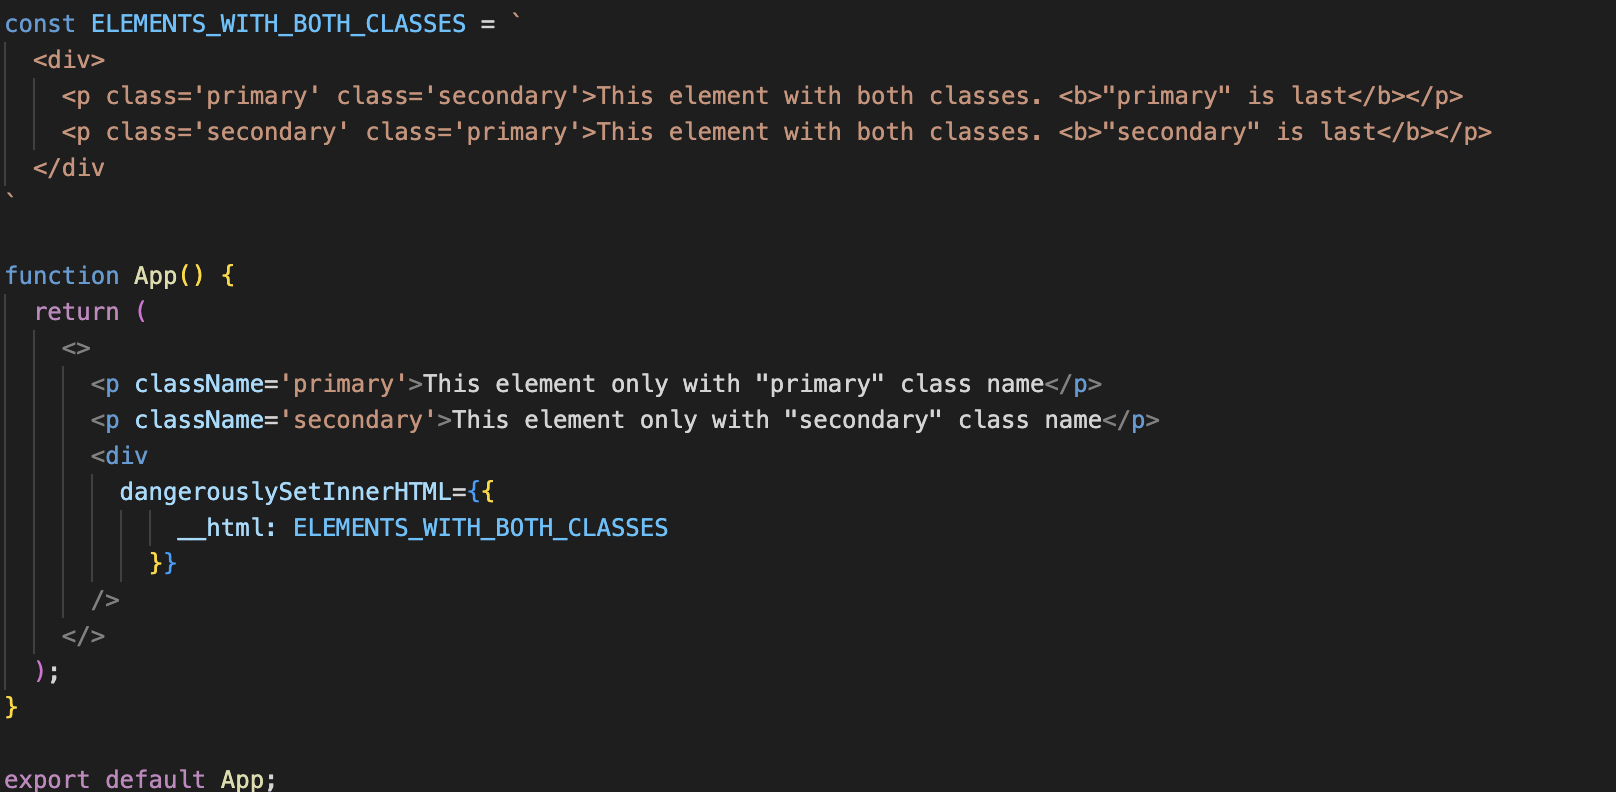
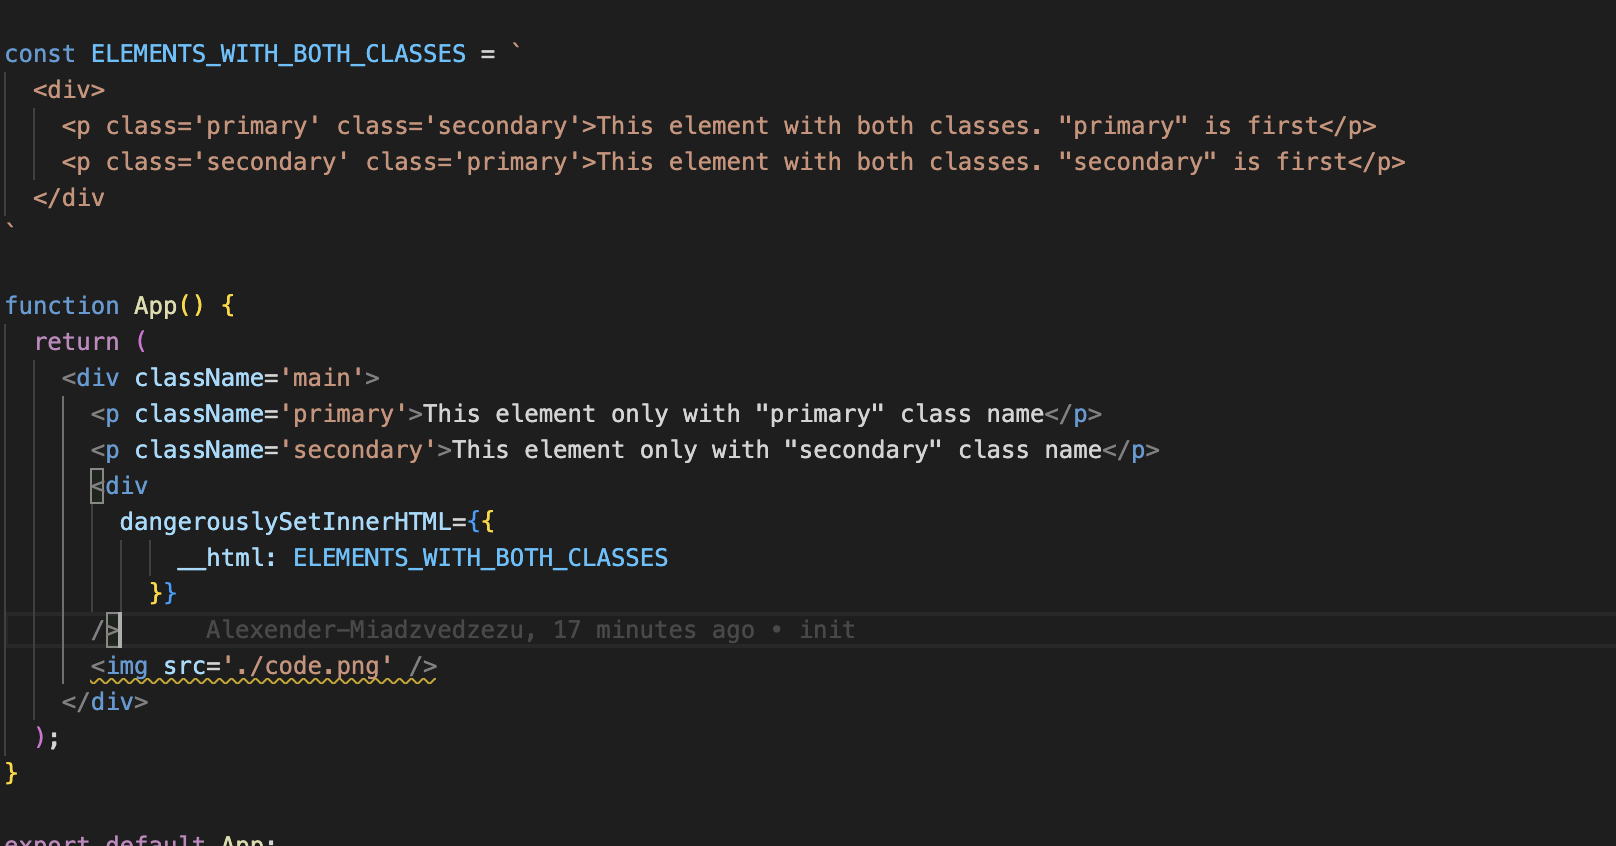
init

diff --git a/src/App.js b/src/App.js
@@ -3,8 +3,8 @@ import './App.css';
 
 const ELEMENTS_WITH_BOTH_CLASSES = `
   <div>
-    <p class='primary' class='secondary'>This element with both classes. "primary" is last</p>
-    <p class='secondary' class='primary'>This element with both classes. "secondary" is last</p>
+    <p class='primary' class='secondary'>This element with both classes. "primary" is first</p>
+    <p class='secondary' class='primary'>This element with both classes. "secondary" is first</p>
   </div
 `
 

diff --git a/src/index.css b/src/index.css
@@ -23,10 +23,12 @@ code {
 
 .primary {
   font-style: italic;
+  color: #2b1147;
 }
 
 .secondary {
   font-weight: bold;
+  color: #981841;
 }
 
 img {
